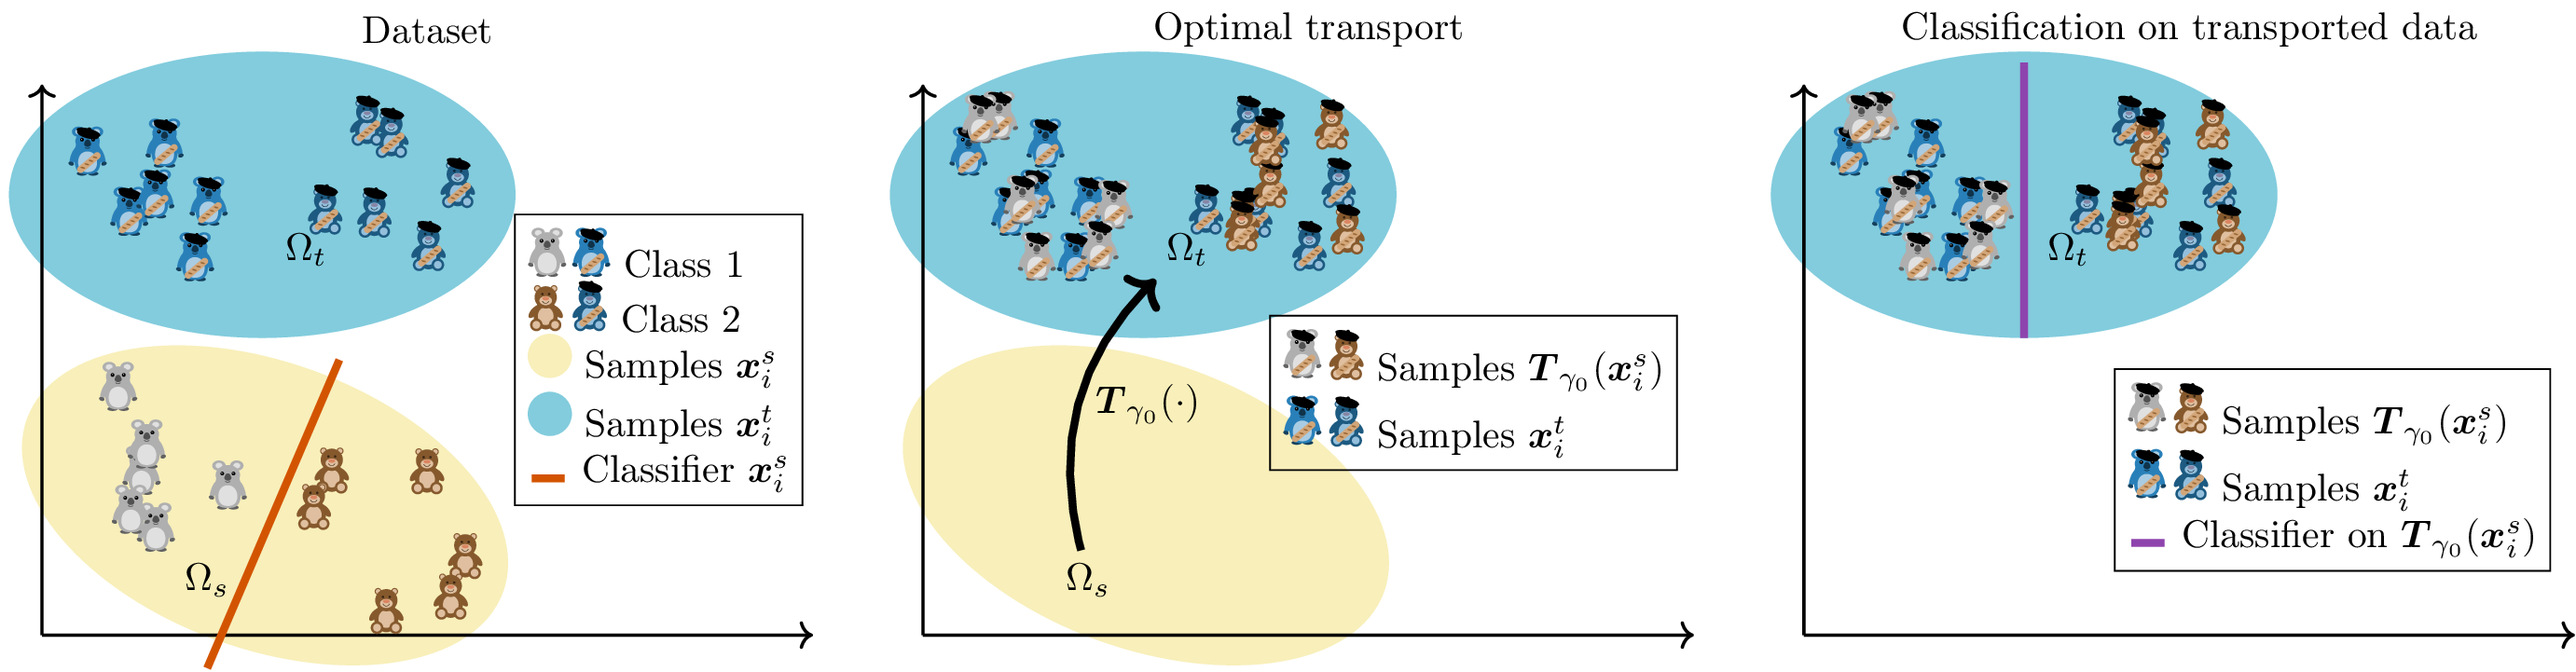
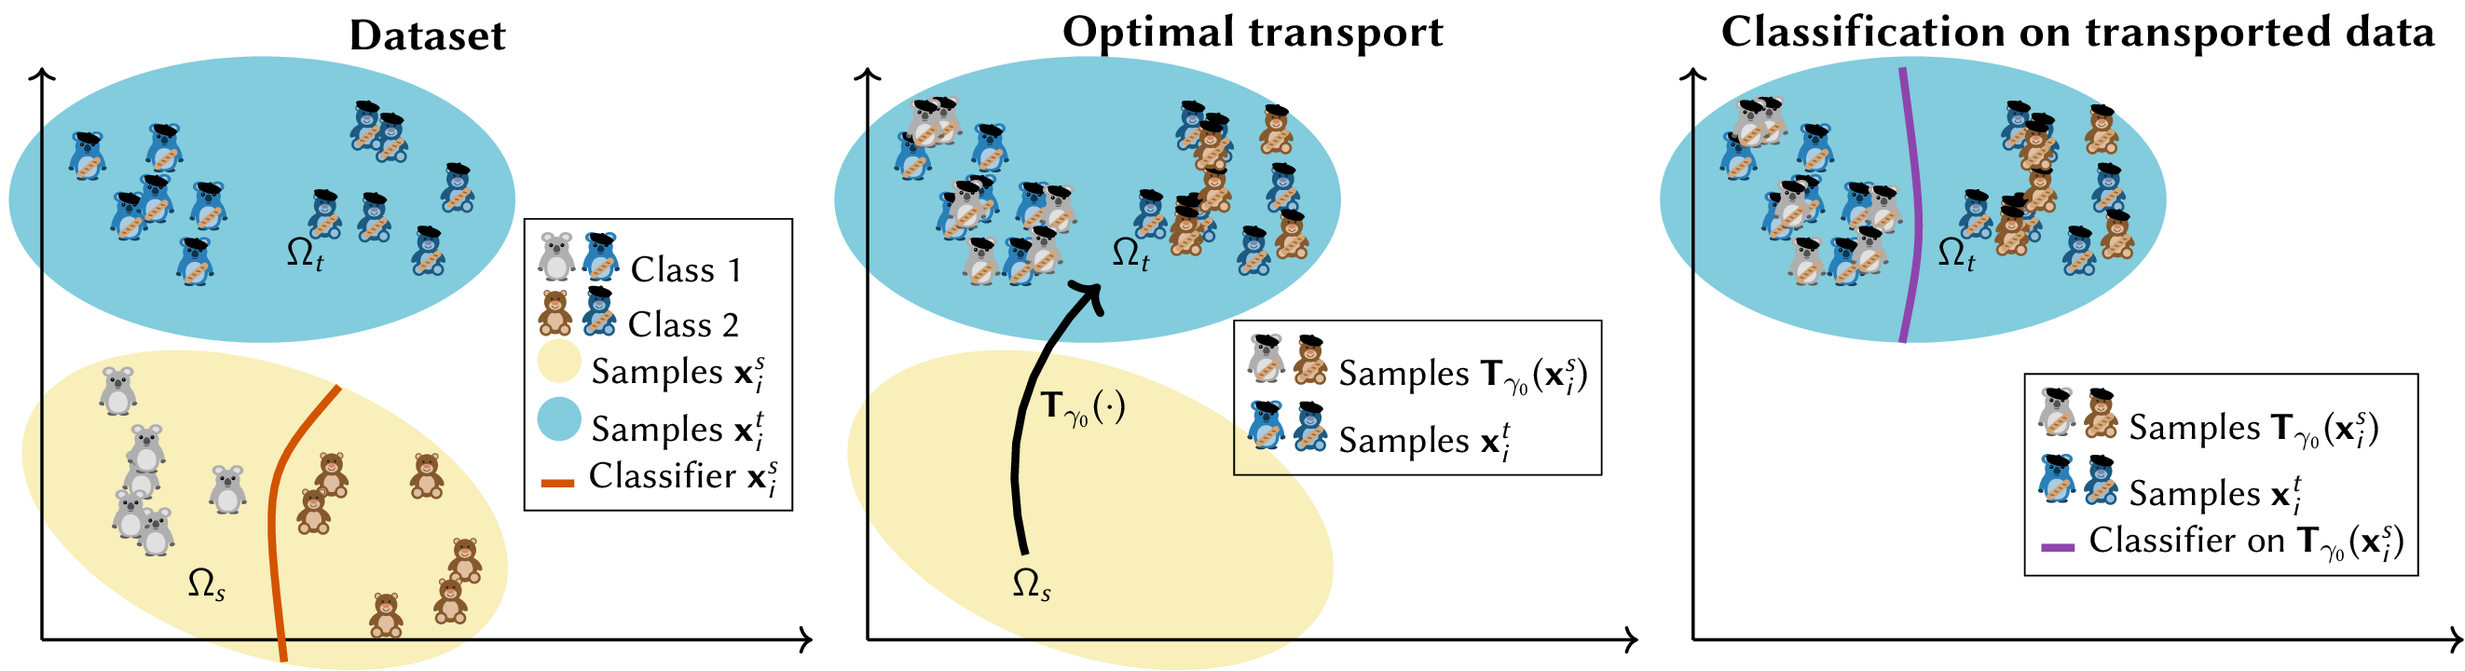
tuning

diff --git a/main.tex b/main.tex
@@ -1,39 +1,32 @@
 \documentclass[tikz,crop=true,10pt]{standalone}
 
-\usepackage[T1]{fontenc}
+\usepackage[sfdefault]{libertine}
+\usepackage{sfmath}
 
 \usepackage{tikzlings}
 \usepackage{amsbsy}
 
  
 %flatuicolors.com Flat UI
-\definecolor{mygreen1}{RGB}{22, 160, 133}
-\definecolor{mygreen2}{RGB}{39, 174, 96}
 \definecolor{myblue}{RGB}{41, 128, 185}
 \definecolor{myviolet}{RGB}{142, 68, 173}
-\definecolor{myyellow}{RGB}{243, 156, 18}
 \definecolor{myorange}{RGB}{211, 84, 0}
-\definecolor{myred}{RGB}{192, 57, 43}
-\definecolor{mydark}{RGB}{58,58,58}
 \definecolor{mylightbeige}{RGB}{248, 239, 186}
 \definecolor{mylightblue}{RGB}{130, 204, 221}
-\definecolor{mypink}{RGB}{207, 106, 135}
 
 \begin{document}
 
-
-
 \usetikzlibrary{arrows.meta, calc}
  
-
 \begin{tikzpicture}
+
 \pgfmathsetseed{3}
 \begin{scope}
 \fill [mylightbeige, rotate=-20] (1.5,1.8) ellipse (2.3 and 1.3); 
 \fill [mylightblue] (2, 4) ellipse (2.3 and 1.3);
 
 \draw[thick,->] (0,0) -- (7,0);
-\draw[thick,->] (0,0) -- (0,5);
+\draw[thick,->] (0,0) -- (0,5.2);
 
 \foreach \x in {1,2,...,6}{
 	\pgfmathsetmacro{\mxs}{30+20*rand}
@@ -47,7 +40,7 @@
 	\koala[xshift=30+20*rand, yshift=40+20*rand,scale=0.2];
 	\bear[xshift=90+20*rand, yshift=20+20*rand,scale=0.2]}
 
-\draw[line width=2, myorange] (1.5,-0.3) -- (2.7,2.5);
+\draw[line width=2, myorange] (2.2,-0.2)  .. controls (2,1.5) ..  (2.7,2.3);
 \node  at (1.5,0.5) {$\Omega_s$};
 \node  at (2.4,3.5) {$\Omega_t$};
 \node[draw,align=left] at (5.6,2.5) {
@@ -57,16 +50,17 @@
 \tikz{\fill [mylightblue] (0,0) ellipse (0.2 and 0.2)} Samples $\boldsymbol{x}_i^t$\\  
 \tikz{\draw[line width=2, myorange] (0,0cm) -- (0.3,0cm)} Classifier  $\boldsymbol{x}_i^s$
 };
-\node at (3.5,5.5) {Dataset};
+\node at (3.5,5.5) {\bf  \large Dataset};
 \end{scope}
 
 \pgfmathsetseed{3}
-\begin{scope}[xshift=8cm]
+
+\begin{scope}[xshift=7.5cm]
 \fill [mylightbeige, rotate=-20] (1.5,1.8) ellipse (2.3 and 1.3);
 \fill [mylightblue] (2, 4) ellipse (2.3 and 1.3);
 
 \draw[thick,->] (0,0) -- (7,0);
-\draw[thick,->] (0,0) -- (0,5);
+\draw[thick,->] (0,0) -- (0,5.2);
 
 \foreach \x in {1,2,...,6}{
 	\pgfmathsetmacro{\mxs}{30+20*rand}
@@ -91,14 +85,14 @@
 \tikz{\koala[baguette,beret,scale=0.2];\bear[baguette,beret,xshift=.4cm,scale=0.2]} Samples $\boldsymbol{T}_{\gamma_0}(\boldsymbol{x}_i^s)$\\ 
 \tikz{\koala[body=myblue,baguette,beret,scale=0.2];\bear[body=myblue,baguette,beret,xshift=.4cm,scale=0.2]}  Samples $\boldsymbol{x}_i^t$
 };
-\node at (3.5,5.5) {Optimal transport};
+\node at (3.5,5.5) {\bf \large Optimal transport};
 \end{scope}
 
 \pgfmathsetseed{3}
-\begin{scope}[xshift=16cm]
+\begin{scope}[xshift=15cm]
 \fill [mylightblue] (2, 4) ellipse (2.3 and 1.3);
 \draw[thick,->] (0,0) -- (7,0);
-\draw[thick,->] (0,0) -- (0,5);
+\draw[thick,->] (0,0) -- (0,5.2);
 
 \foreach \x in {1,2,...,6}{
 	\pgfmathsetmacro{\mxs}{30+20*rand}
@@ -117,14 +111,15 @@
 	\bear[baguette,beret,xshift=\bxs, yshift=\bys,scale=0.2]}
 
 
-\draw[line width=2, myviolet] (2,2.7) -- (2,5.2);
+\draw[line width=2, myviolet] (1.9,2.7)  .. controls (2.1,3.7) .. (1.9,5.2);
+
 \node  at (2.4,3.5) {$\Omega_t$};
 \node[draw,align=left] at (4.8,1.5) {
 \tikz{\koala[baguette,beret,scale=0.2];\bear[baguette,beret,xshift=.4cm,scale=0.2]} Samples $\boldsymbol{T}_{\gamma_0}(\boldsymbol{x}_i^s)$\\ 
 \tikz{\koala[body=myblue,baguette,beret,scale=0.2];\bear[body=myblue,baguette,beret,xshift=.4cm,scale=0.2]}  Samples $\boldsymbol{x}_i^t$\\
 \tikz{\draw[line width=2, myviolet] (0,0cm) -- (0.3,0cm)} Classifier  on $\boldsymbol{T}_{\gamma_0}(\boldsymbol{x}_i^s)$
 };
-\node at (3.5,5.5) {Classification on transported data};
+\node at (3.5,5.5) {\bf  \large Classification on transported data};
 \end{scope}
 
 \end{tikzpicture}
